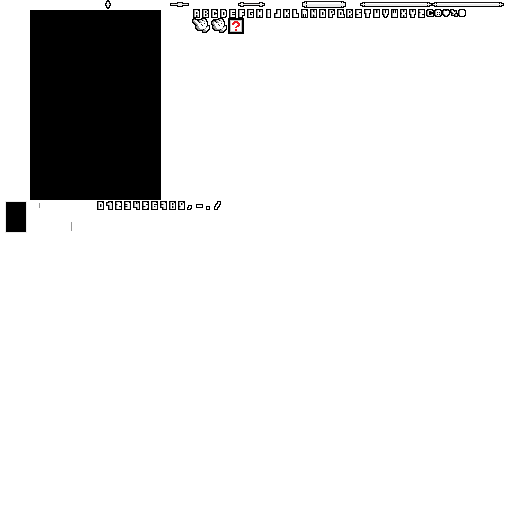
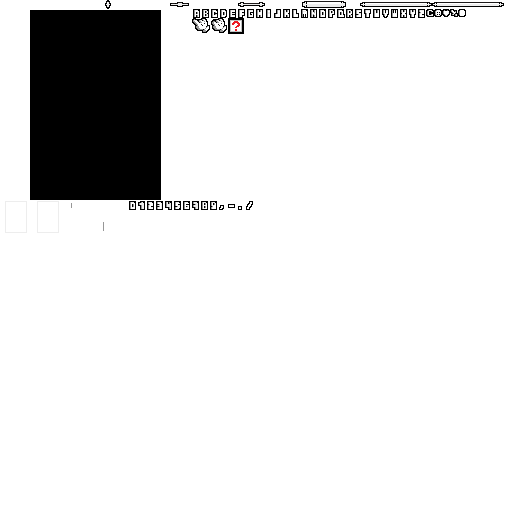
[Add] More card damage visuals.

Changed region(s): [[0.1875, 0.375, 0.4375, 0.4062], [0.0, 0.375, 0.0625, 0.4688]]

diff --git a/Graphics Engine/Game/Src/Levels/Level.cpp b/Graphics Engine/Game/Src/Levels/Level.cpp
@@ -12,7 +12,7 @@
 
 namespace game
 {
-	constexpr uint32_t CARD_FRAME_COUNT = 3;
+	constexpr uint32_t CARD_FRAME_COUNT = 4;
 	constexpr uint32_t CARD_STACKED_SPACING = 6;
 	constexpr float CARD_MONSTER_ANIM_SPEED = .5f;
 
@@ -216,9 +216,10 @@ namespace game
 			const bool greyedOut = drawInfo.greyedOutArr ? drawInfo.greyedOutArr[i] : false;
 			const bool selected = drawInfo.selectedArr ? drawInfo.selectedArr[i] : drawInfo.highlighted == i;
 
-			cardDrawInfo.borderColor = glm::vec4(1);
-			cardDrawInfo.borderColor = greyedOut ? glm::vec4(.1, .1, .1, 1) : cardDrawInfo.borderColor;
-			cardDrawInfo.borderColor = selected ? glm::vec4(0, 1, 0, 1) : cardDrawInfo.borderColor;
+			cardDrawInfo.fgColor = glm::vec4(1);
+			cardDrawInfo.bgColor = glm::vec4(0, 0, 0, 1);
+			cardDrawInfo.fgColor = greyedOut ? glm::vec4(.1, .1, .1, 1) : cardDrawInfo.fgColor;
+			cardDrawInfo.fgColor = selected ? glm::vec4(0, 1, 0, 1) : cardDrawInfo.fgColor;
 			cardDrawInfo.card = drawInfo.cards[i];
 			cardDrawInfo.selectable = true;
 			const bool collides = CollidesCard(info, cardDrawInfo);
@@ -308,11 +309,10 @@ namespace game
 		bgRenderTask.subTexture = cardFrames[0];
 		bgRenderTask.xCenter = drawInfo.center;
 		bgRenderTask.yCenter = drawInfo.center;
-		bgRenderTask.color = drawInfo.borderColor;
 
 		const bool collided = CollidesShapeInt(drawInfo.origin - 
 			(drawInfo.center ? bgRenderTask.scale / 2 : glm::ivec2(0)), bgRenderTask.scale, info.inputState.mousePos);
-		bgRenderTask.color = collided && drawInfo.selectable ? glm::vec4(1, 0, 0, 1) : bgRenderTask.color;
+		bgRenderTask.color = collided && drawInfo.selectable ? glm::vec4(1, 0, 0, 1) : drawInfo.bgColor;
 		info.pixelPerfectRenderTasks.Push(bgRenderTask);
 
 		// Draw image.
@@ -333,6 +333,11 @@ namespace game
 			info.pixelPerfectRenderTasks.Push(imageRenderTask);
 		}
 
+		PixelPerfectRenderTask fgRenderTask = bgRenderTask;
+		fgRenderTask.subTexture = cardFrames[1];
+		fgRenderTask.color = drawInfo.fgColor;
+		info.pixelPerfectRenderTasks.Push(fgRenderTask);
+
 		const bool priority = !info.inputState.rMouse.pressed;
 		const auto& statsTexture = info.atlasTextures[static_cast<uint32_t>(TextureId::stats)];
 		jv::ge::SubTexture statFrames[5];
@@ -345,7 +350,7 @@ namespace game
 			costRenderTask.scale = statsTexture.resolution / glm::ivec2(5, 1);
 			costRenderTask.xCenter = drawInfo.center;
 			costRenderTask.yCenter = drawInfo.center;
-			costRenderTask.color = drawInfo.borderColor;
+			costRenderTask.color = drawInfo.fgColor;
 			costRenderTask.subTexture = statFrames[4];
 			costRenderTask.priority = priority;
 			info.pixelPerfectRenderTasks.Push(costRenderTask);
@@ -367,7 +372,7 @@ namespace game
 			statsRenderTask.scale = statsTexture.resolution / glm::ivec2(5, 1);
 			statsRenderTask.xCenter = drawInfo.center;
 			statsRenderTask.yCenter = drawInfo.center;
-			statsRenderTask.color = drawInfo.borderColor;
+			statsRenderTask.color = drawInfo.fgColor;
 			statsRenderTask.priority = priority;
 
 			uint32_t values[3]

diff --git a/Graphics Engine/Game/Include/Levels/Level.h b/Graphics Engine/Game/Include/Levels/Level.h
@@ -84,7 +84,8 @@ namespace game
 			glm::ivec2 origin;
 			Card* card;
 			bool center = false;
-			glm::vec4 borderColor{1};
+			glm::vec4 bgColor{0, 0, 0, 1};
+			glm::vec4 fgColor{ 1 };
 			bool selectable = true;
 			float lifeTime = 0;
 			CombatStats* combatStats = nullptr;
